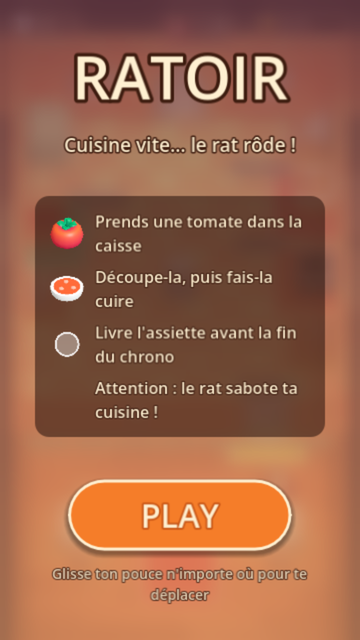
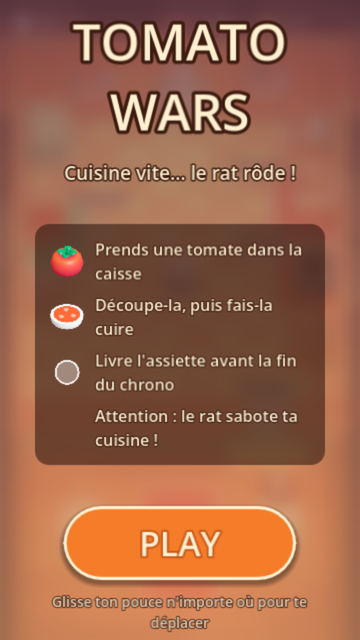
Renomme le jeu en Tomato Wars
- Titre de l'écran d'accueil, nom du projet Godot (titre de la page Web),
  zip d'export (tomato-wars-web.zip), README, concept, contribution, crédits,
  prompts de logo, fiches de phase, skill de workflow
- Le dépôt GitHub garde le nom Ratoir (URL de clonage inchangées)
- Capture de l'écran d'accueil refaite avec le nouveau titre

diff --git a/tools/optimize_glb.py b/tools/optimize_glb.py
@@ -216,7 +216,7 @@ def main() -> None:
 
     out["accessors"], out["bufferViews"] = writer.accessors, writer.views
     out["buffers"] = [{"byteLength": len(writer.bin)}]
-    out.setdefault("asset", {})["generator"] = "Ratoir tools/optimize_glb.py"
+    out.setdefault("asset", {})["generator"] = "Tomato Wars tools/optimize_glb.py"
 
     json_bytes = json.dumps(out, separators=(",", ":")).encode()
     json_bytes += b" " * (-len(json_bytes) % 4)

diff --git a/README.md b/README.md
@@ -1,6 +1,6 @@
-# Ratoir
+# Tomato Wars
 
-<p align="center"><img src="docs/images/screens/cover.png" width="630" alt="Ratoir : la cuisine, le chef et le juge qui note un plat"></p>
+<p align="center"><img src="docs/images/screens/cover.png" width="630" alt="Tomato Wars : la cuisine, le chef et le juge qui note un plat"></p>
 
 > 🇫🇷 Cuisine vite, livre tes plats… pendant qu'un rat saboteur rôde dans ta cuisine !
 > 🇬🇧 Cook fast, serve your dishes… while a sneaky rat wreaks havoc in your kitchen!
@@ -17,7 +17,7 @@
   <img src="docs/images/screens/5_victoire.png" width="150" alt="Écran de victoire">
 </p>
 
-Jeu de cuisine en 3D pour **téléphone**, jouable **dans le navigateur** : **[sapphirdev.itch.io/tomatowars](https://sapphirdev.itch.io/tomatowars)** (publié sur itch.io sous le nom *Tomato Wars*). Projet de hackathon réalisé avec **Godot 4.7**.
+Jeu de cuisine en 3D pour **téléphone**, jouable **dans le navigateur** : **[sapphirdev.itch.io/tomatowars](https://sapphirdev.itch.io/tomatowars)** Projet de hackathon réalisé avec **Godot 4.7** (le dépôt GitHub s'appelle *Ratoir*, l'ancien nom du jeu).
 
 ---
 
@@ -103,7 +103,7 @@ Chaque test affiche `… : 0 échec(s)` quand tout va bien. Les avertissements d
 Godot Web exige une page servie en **HTTPS** (ou `localhost`). Pour tester sur ton téléphone depuis ton PC :
 
 ```bash
-./tools/export_web.sh            # exporte dans build/web/ (+ build/ratoir-web.zip)
+./tools/export_web.sh            # exporte dans build/web/ (+ build/tomato-wars-web.zip)
 python3 tools/serve_https.py     # affiche l'adresse à ouvrir, ex. https://192.168.1.20:8765
 ```
 
@@ -113,7 +113,7 @@ Sur le téléphone (même Wi-Fi que le PC) : ouvrir l'adresse affichée → aver
 
 ## Publier sur itch.io
 
-1. `./tools/export_web.sh` → produit `build/ratoir-web.zip` (`index.html` à la racine du zip).
+1. `./tools/export_web.sh` → produit `build/tomato-wars-web.zip` (`index.html` à la racine du zip).
 2. Sur itch.io : **Kind of project : HTML** → envoyer le zip → cocher **« This file will be played in the browser »**.
 3. *Embed options* : **360 × 640**, **Mobile friendly** en **Portrait**, **Fullscreen button**. Laisser *SharedArrayBuffer* décoché (export sans threads).
 4. Captures et couverture : `docs/images/screens/` (versions réduites) ou `build/itch/` en pleine taille après une session de captures.
@@ -172,7 +172,7 @@ Ratoir/
 
 ## 🇬🇧 English
 
-**Ratoir** is a 3D cooking game for **mobile phones**, playable **right in the browser**: **[sapphirdev.itch.io/tomatowars](https://sapphirdev.itch.io/tomatowars)** (published on itch.io as *Tomato Wars*). Built during a hackathon with **Godot 4.7**.
+**Tomato Wars** is a 3D cooking game for **mobile phones**, playable **right in the browser**: **[sapphirdev.itch.io/tomatowars](https://sapphirdev.itch.io/tomatowars)** Built during a hackathon with **Godot 4.7** (the GitHub repository is named *Ratoir*, the game's former name).
 
 You are the chef. Your mission: serve as many dishes as possible before time runs out. But a rat crawls out of its hole to wreak havoc in your kitchen…
 
@@ -203,4 +203,4 @@ You are the chef. Your mission: serve as many dishes as possible before time run
 The detailed design and team documentation (in French) lives in [`docs/`](docs/).
 
 ### Credits
-Built by the Ratoir team during a hackathon with Godot Engine. Environment: KayKit Restaurant Bits by Kay Lousberg (CC0). Characters and furniture generated with Meshy AI. Commentator voice: Gradium. See [CREDITS.md](CREDITS.md).
+Built by the Tomato Wars team during a hackathon with Godot Engine. Environment: KayKit Restaurant Bits by Kay Lousberg (CC0). Characters and furniture generated with Meshy AI. Commentator voice: Gradium. See [CREDITS.md](CREDITS.md).

diff --git a/docs/ASSETS.md b/docs/ASSETS.md
@@ -64,7 +64,7 @@ C'est le plus rapide, le plus sûr côté licence, et le style est cohérent. Po
 
 ### Sources conseillées
 
-| Source | Licence habituelle | Ce qu'on y trouve pour Ratoir |
+| Source | Licence habituelle | Ce qu'on y trouve pour Tomato Wars |
 |--------|--------------------|-------------------------------|
 | **KayKit** (Kay Lousberg), `kaylousberg.itch.io` | CC0 (domaine public) | Packs low-poly très cohérents, dont un pack de **cuisine/restaurant** (meubles, ustensiles, nourriture) et des **personnages animés**. **Premier choix pour le style.** |
 | **Kenney**, `kenney.nl/assets` | CC0 | *Food Kit* (plein d'aliments dont tomates et assiettes), *Furniture Kit*, personnages simples, **packs de sons** |
@@ -375,12 +375,12 @@ Pas de conversion 3D : on les utilise dans l'interface ou comme texture. Demande
 | `ui/judge.png` | Portrait sur la carte du juge (Phase 6) | `cartoon portrait of a snobbish food critic judge, bust shot, thin mustache, monocle, raised eyebrow, holding a small scorecard, bold outlines, flat colors, sticker style, transparent background` |
 | `ui/star.png` | Étoiles de l'écran de fin (Phase 4) | `game UI icon, a golden star with a thick dark outline, glossy, cartoon, flat, centered, transparent background` |
 | `ui/hit_button.png` | Bouton TAPER (Phase 3) | `game UI round button icon, cartoon frying pan hitting with motion lines, white icon on a bold orange circle, thick outline, flat, centered, transparent background` |
-| `ui/logo.png` | Écran titre (Phase 4) | `game logo text "RATOIR", chunky rounded bold cartoon letters, cream and tomato red colors, a small rat tail curling out of the letter R, a chef hat on the letter O, thick dark outline, transparent background` |
+| `ui/logo.png` | Écran titre (Phase 4) | `game logo text "TOMATO WARS", chunky rounded bold cartoon letters, cream and tomato red colors, a small rat tail curling out of the letter W, a chef hat on the first letter O, thick dark outline, transparent background` |
 | `textures/floor_tiles.png` | Sol (remplace le shader de damier) | `seamless tileable texture, top-down view, cartoon kitchen floor with cream and beige checkered tiles, flat colors, subtle grout lines, no perspective` |
 | `textures/wall_bricks.png` | Murs | `seamless tileable texture, front view, warm terracotta cartoon kitchen wall with subtle brick pattern, flat colors, no perspective` |
 | `textures/sauce_splash.png` | Flaque du plat renversé (Phase 3) | `top-down view of a cartoon red tomato sauce splash puddle, flat colors, simple shape, transparent background` |
 
-Les générateurs d'images écrivent souvent mal le texte : pour le logo, vérifier l'orthographe de **RATOIR**, ou générer le logo sans texte et ajouter les lettres dans Godot avec une police.
+Les générateurs d'images écrivent souvent mal le texte : pour le logo, vérifier l'orthographe de **TOMATO WARS**, ou générer le logo sans texte et ajouter les lettres dans Godot avec une police.
 
 ### 11.7 Avant de passer à la 3D
 - [ ] Toutes les images ont le **même style** que l'image de référence.

diff --git a/docs/CONCEPT.md b/docs/CONCEPT.md
@@ -1,4 +1,4 @@
-# Ratoir — Concept complet
+# Tomato Wars — Concept complet
 
 > **Document de référence du jeu.** En cas de doute ou de contradiction avec un autre document (y compris le PDF de conception d'origine « Duel de Cuisine »), **c'est ce fichier qui fait foi**.
 > Toute décision de design qui change le jeu doit être reportée ici.
@@ -7,7 +7,7 @@
 
 ## 1. Le pitch
 
-**Ratoir** est un jeu de cuisine en 3D pour téléphone. Le joueur est un cuisinier qui doit servir **le plus de plats possible avant la fin du chrono**. Un **rat** sort régulièrement d'un trou dans le mur pour **saboter** la cuisine. **Pour l'instant, le chef ne peut rien faire contre le rat** : il doit l'éviter et réparer ses dégâts. Le bouton pour le taper est prévu mais désactivé (voir §8.3).
+**Tomato Wars** est un jeu de cuisine en 3D pour téléphone. Le joueur est un cuisinier qui doit servir **le plus de plats possible avant la fin du chrono**. Un **rat** sort régulièrement d'un trou dans le mur pour **saboter** la cuisine. **Pour l'instant, le chef ne peut rien faire contre le rat** : il doit l'éviter et réparer ses dégâts. Le bouton pour le taper est prévu mais désactivé (voir §8.3).
 
 Pendant la partie, un **commentateur IA** façon commentateur sportif réagit à ce qui se passe, avec une voix de synthèse. Un **juge IA** donne un nom absurde et une critique à chaque plat livré. À la fin, l'IA rédige un **récap' personnalisé** de la partie.
 
@@ -195,4 +195,5 @@ Le jeu tourne dans le navigateur : **toute clé mise dans le jeu est publique**.
 | 2026-09-26 | **Portrait**, cuisine droite en plongée à 55° (au lieu d'une vue isométrique en losange), **caméra qui suit** le joueur | Conseil du jury, et la carte était trop petite en paysage |
 | 2026-09-26 | Score transformé en **étoiles** en fin de manche (5 / 10 / 15 points) | Objectif clair et rejouabilité |
 | 2026-09-26 | Nom du jeu : **Ratoir** | Nom du dépôt |
+| 2026-09-26 | Le jeu est renommé **Tomato Wars** (publié sur itch.io : sapphirdev.itch.io/tomatowars). Le dépôt GitHub garde le nom *Ratoir* | Nom de la page itch.io |
 | 2026-09-26 | **Bouton TAPER retiré** : le chef ne peut rien contre le rat pour l'instant (code conservé, désactivé) | Choix de design, à réévaluer à l'équilibrage |

diff --git a/CREDITS.md b/CREDITS.md
@@ -17,8 +17,8 @@ Une ligne par asset (ou par pack) utilisé. **Obligatoire pour les licences CC-B
 |-------|--------------------------|--------|--------------|---------|
 | *(exemple)* Pack cuisine | `assets/models/kitchen/*.glb` | *Auteur* | *https://…* | CC0 |
 | KayKit Restaurant Bits (meubles, ustensiles, aliments) | `assets/kaykit/**` | Kay Lousberg | https://kaylousberg.itch.io | CC0 |
-| Icônes d'aliments et de soupes | `assets/ui/icons/*.png` | Équipe Ratoir | — | *À compléter* |
-| Shaders carrelage, parquet, tapis, flou, vignettage | `shaders/*.gdshader` | Équipe Ratoir | — | — |
+| Icônes d'aliments et de soupes | `assets/ui/icons/*.png` | Équipe Tomato Wars | — | *À compléter* |
+| Shaders carrelage, parquet, tapis, flou, vignettage | `shaders/*.gdshader` | Équipe Tomato Wars | — | — |
 | Meubles et objets : plan de travail, découpe, cuisinière, caisse de tomates, comptoir de livraison, poêle ; assiette cuisinée | `assets/models/kitchen/*.glb`, `assets/models/food/plate_dish.glb` | Générés par l'équipe avec Meshy AI | https://www.meshy.ai | *À compléter : conditions de l'abonnement Meshy utilisé* |
 | Juge (modèle et squelette) | `assets/models/characters/judge.glb` | Généré par l'équipe avec Meshy AI | https://www.meshy.ai | *À compléter : conditions de l'abonnement Meshy utilisé* |
 | Rat « Whiskerwink » (modèle, squelette, animation de course) et version assommée | `assets/models/characters/rat.glb`, `rat_stunned.glb` | Généré par l'équipe avec Meshy AI | https://www.meshy.ai | *À compléter : conditions de l'abonnement Meshy utilisé* |

diff --git a/docs/phases/PHASE-8-demo.md b/docs/phases/PHASE-8-demo.md
@@ -23,9 +23,9 @@ Un jeu **en ligne sur itch.io**, qui marche **sur les téléphones du jury**, et
 ## 3. Déployer sur itch.io
 
 ### Première fois (à faire **dès maintenant**, pour valider la chaîne)
-1. `./tools/export_web.sh` → `build/ratoir-web.zip`.
+1. `./tools/export_web.sh` → `build/tomato-wars-web.zip`.
 2. itch.io → *Upload new project* :
-   - **Title** : Ratoir
+   - **Title** : Tomato Wars
    - **Kind of project** : **HTML**
    - **Uploads** : envoyer le zip et cocher **« This file will be played in the browser »**
    - **Embed options** : taille **360 × 640**, cocher **Mobile friendly** (orientation **Portrait**), cocher **Fullscreen button**
@@ -35,7 +35,7 @@ Un jeu **en ligne sur itch.io**, qui marche **sur les téléphones du jury**, et
 
 ### Mises à jour
 - Soit **renvoyer le zip** sur la page (supprimer l'ancien fichier).
-- Soit utiliser **butler**, l'outil en ligne de commande d'itch.io (`butler login` une fois, puis `butler push build/web <compte>/ratoir:html5`). Pratique pour pousser en 10 secondes pendant le hackathon.
+- Soit utiliser **butler**, l'outil en ligne de commande d'itch.io (`butler login` une fois, puis `butler push build/web sapphirdev/tomatowars:html5`). Pratique pour pousser en 10 secondes pendant le hackathon.
 
 ### Relais IA (Phases 5 et 6)
 - Le relais doit être **déployé** (pas sur un PC de l'équipe) et son URL renseignée dans le jeu (`proxy_url`).

diff --git a/docs/phases/PHASE-7-polish.md b/docs/phases/PHASE-7-polish.md
@@ -71,7 +71,7 @@ Que le jeu soit **agréable à regarder et à écouter**, pas seulement fonction
 
 ### Étape 5 — Habillage de l'interface
 - [ ] Une **police** ronde et grasse, lisible sur téléphone (ex. une police de Google Fonts sous licence OFL). L'importer et la définir dans un **thème** (`assets/ui/theme.tres`) appliqué à `UI`.
-- [ ] Bouton TAPER avec une icône de poêle, écrans titre et fin aux couleurs du jeu, logo « RATOIR ».
+- [ ] Bouton TAPER avec une icône de poêle, écrans titre et fin aux couleurs du jeu, logo « TOMATO WARS ».
 
 ## 4. Retours visuels et sonores par action
 
@@ -105,7 +105,7 @@ Que le jeu soit **agréable à regarder et à écouter**, pas seulement fonction
   2. réduire le nombre de particules ;
   3. décimer les modèles trop lourds ;
   4. fusionner les matériaux (une texture palette pour tout).
-- Vérifier le poids du build : `ls -lh build/ratoir-web.zip` (le moteur seul fait ≈ 10 Mo).
+- Vérifier le poids du build : `ls -lh build/tomato-wars-web.zip` (le moteur seul fait ≈ 10 Mo).
 
 ## 6. Pièges connus
 - **Modèle qui regarde du mauvais côté** : il doit regarder vers +Z. Corriger la rotation du **nœud du modèle**, jamais de `Model` (le script le fait tourner).

diff --git a/docs/phases/PHASE-4-manche.md b/docs/phases/PHASE-4-manche.md
@@ -66,7 +66,7 @@ func reset() -> void            # score = 0, events.clear(), round_state = TITLE
 ### 3.3 Écrans (dans `scenes/ui/`, instanciés **une fois** dans `main.tscn` sous `UI`)
 | Scène | Contenu | Détails |
 |-------|---------|---------|
-| `title_screen.tscn` | Fond semi-transparent, titre **RATOIR**, « Touchez pour commencer » qui pulse | Au **premier** `InputEventScreenTouch` pressé → jouer le son « pop » → se cacher → lancer le compte à rebours |
+| `title_screen.tscn` | Fond semi-transparent, titre **TOMATO WARS**, « Touchez pour commencer » qui pulse | Au **premier** `InputEventScreenTouch` pressé → jouer le son « pop » → se cacher → lancer le compte à rebours |
 | `countdown.tscn` | Gros chiffres 3 → 2 → 1 → « Cuisinez ! » | ≈ 0,8 s par étape avec un `Tween` (grossit puis disparaît). À la fin, `GameState.start_round()`. **Plus tard (Phase 6)** : afficher ici le nom et la réplique du rat |
 | `result_screen.tscn` | « Temps écoulé ! », score, 3 étoiles, texte du récap', bouton **Rejouer** | Étoiles qui s'allument une par une (tween d'échelle + son). Rejouer : `GameState.reset()` puis `get_tree().reload_current_scene()` |
 

diff --git a/.claude/skills/phase-workflow/SKILL.md b/.claude/skills/phase-workflow/SKILL.md
@@ -1,9 +1,9 @@
 ---
 name: phase-workflow
-description: À utiliser dès qu'on commence, reprend ou termine une phase de Ratoir (docs/phases/PHASE-N-*.md) ou toute tâche qui modifie le dépôt. Impose une branche dédiée, partie de staging et poussée sur le remote pour relecture en Pull Request vers staging ; ne jamais pousser sur main ni sur staging.
+description: À utiliser dès qu'on commence, reprend ou termine une phase de Tomato Wars (docs/phases/PHASE-N-*.md) ou toute tâche qui modifie le dépôt. Impose une branche dédiée, partie de staging et poussée sur le remote pour relecture en Pull Request vers staging ; ne jamais pousser sur main ni sur staging.
 ---
 
-# Workflow git d'une phase Ratoir
+# Workflow git d'une phase Tomato Wars
 
 ## Modèle de branches
 

diff --git a/docs/phases/PHASE-5-commentateur.md b/docs/phases/PHASE-5-commentateur.md
@@ -70,7 +70,7 @@ Petit service HTTP, dans le langage le plus confortable pour l'équipe (Python F
 
 ### Prompt système du commentateur (point de départ)
 ```
-Tu es le commentateur sportif survolté d'une émission de cuisine absurde, « Ratoir ».
+Tu es le commentateur sportif survolté d'une émission de cuisine absurde, « Tomato Wars ».
 Un chef cuisinier doit servir un maximum d'assiettes de tomates avant la fin du chrono,
 pendant qu'un rat nommé {rat_name} sort de son trou pour saboter la cuisine.
 Tu commentes en français, au second degré, comme un match de foot.

diff --git a/docs/phases/PHASE-6-juge-recap.md b/docs/phases/PHASE-6-juge-recap.md
@@ -109,7 +109,7 @@ Envoyer **les stats et le journal** : les stats pour la fiabilité des chiffres,
 
 ### Prompt (point de départ)
 ```
-Tu es le commentateur de « Ratoir ». La partie est finie. Fais un récap' de 3 phrases maximum,
+Tu es le commentateur de « Tomato Wars ». La partie est finie. Fais un récap' de 3 phrases maximum,
 drôle et bienveillant, adressé au joueur (tutoiement). Cite au moins deux faits précis
 tirés des statistiques ou du journal, et le nom du rat. Termine par une phrase qui donne
 envie de rejouer. N'invente aucun chiffre.

diff --git a/docs/CONTRIBUTING.md b/docs/CONTRIBUTING.md
@@ -1,4 +1,4 @@
-# Travailler à plusieurs sur Ratoir
+# Travailler à plusieurs sur Tomato Wars
 
 Godot stocke les scènes dans des fichiers texte (`.tscn`), mais **deux personnes qui modifient la même scène en même temps**, c'est un conflit git quasi garanti et pénible à résoudre. Ces règles sont là pour l'éviter.
 
